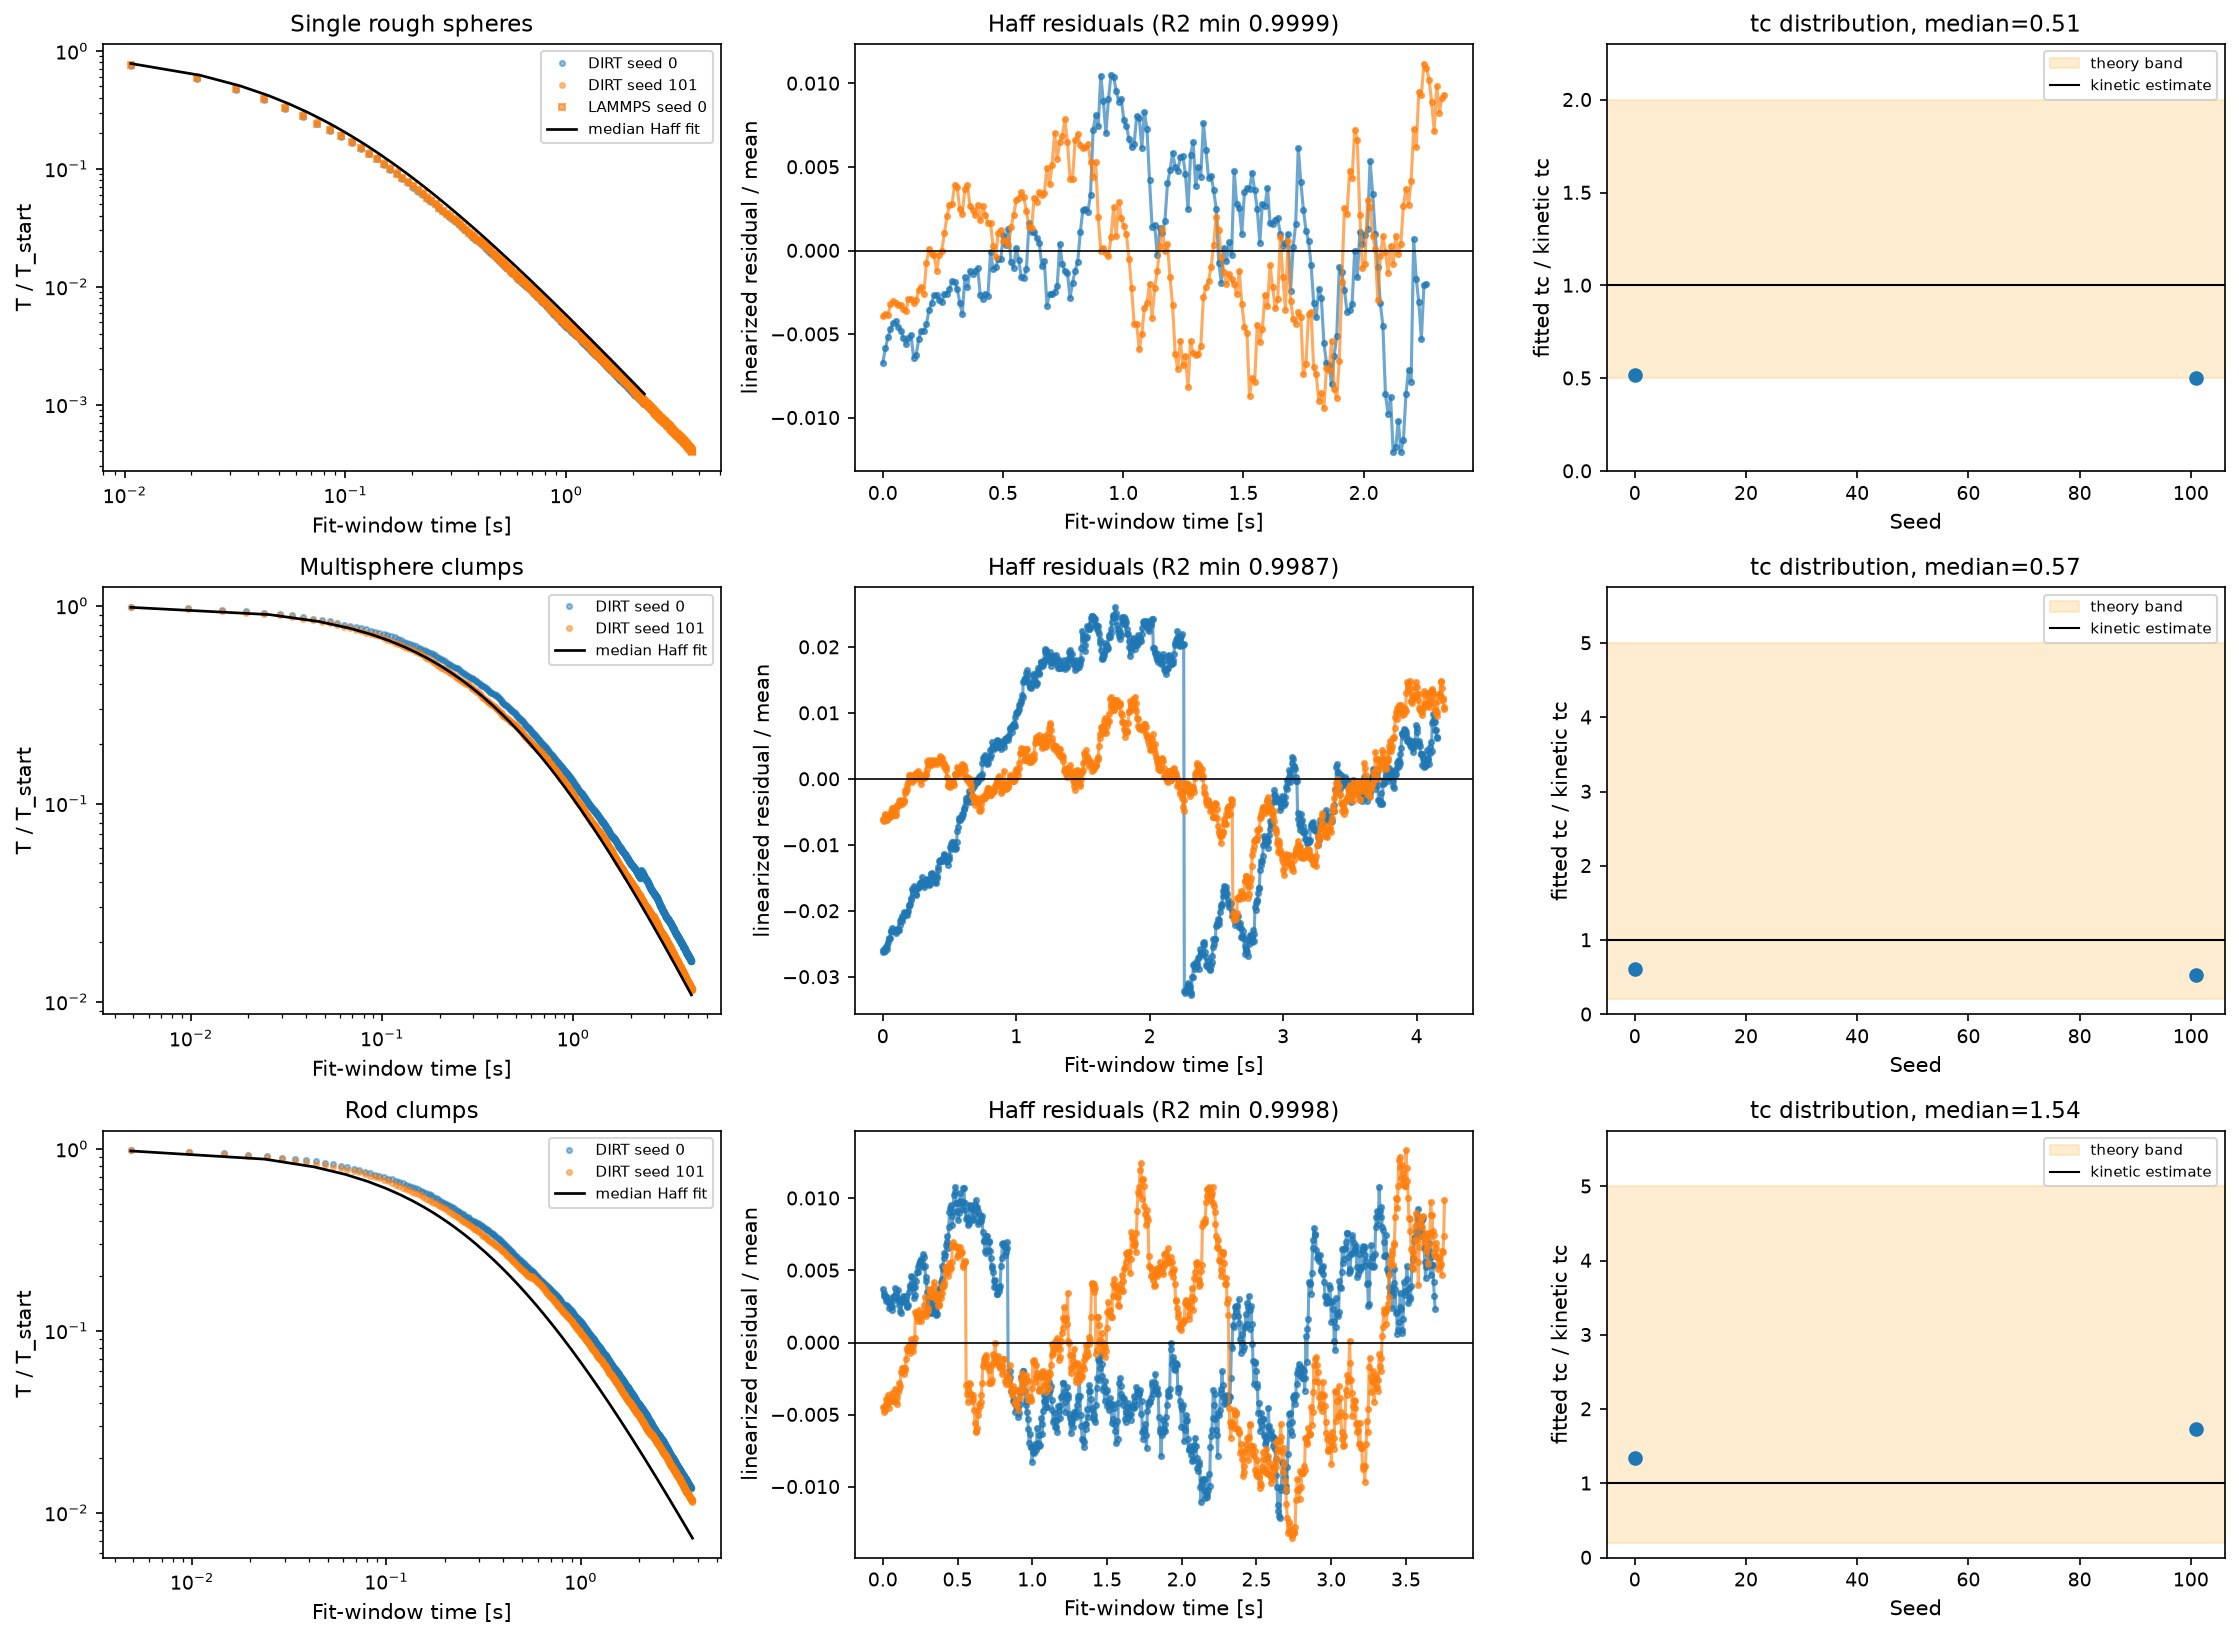
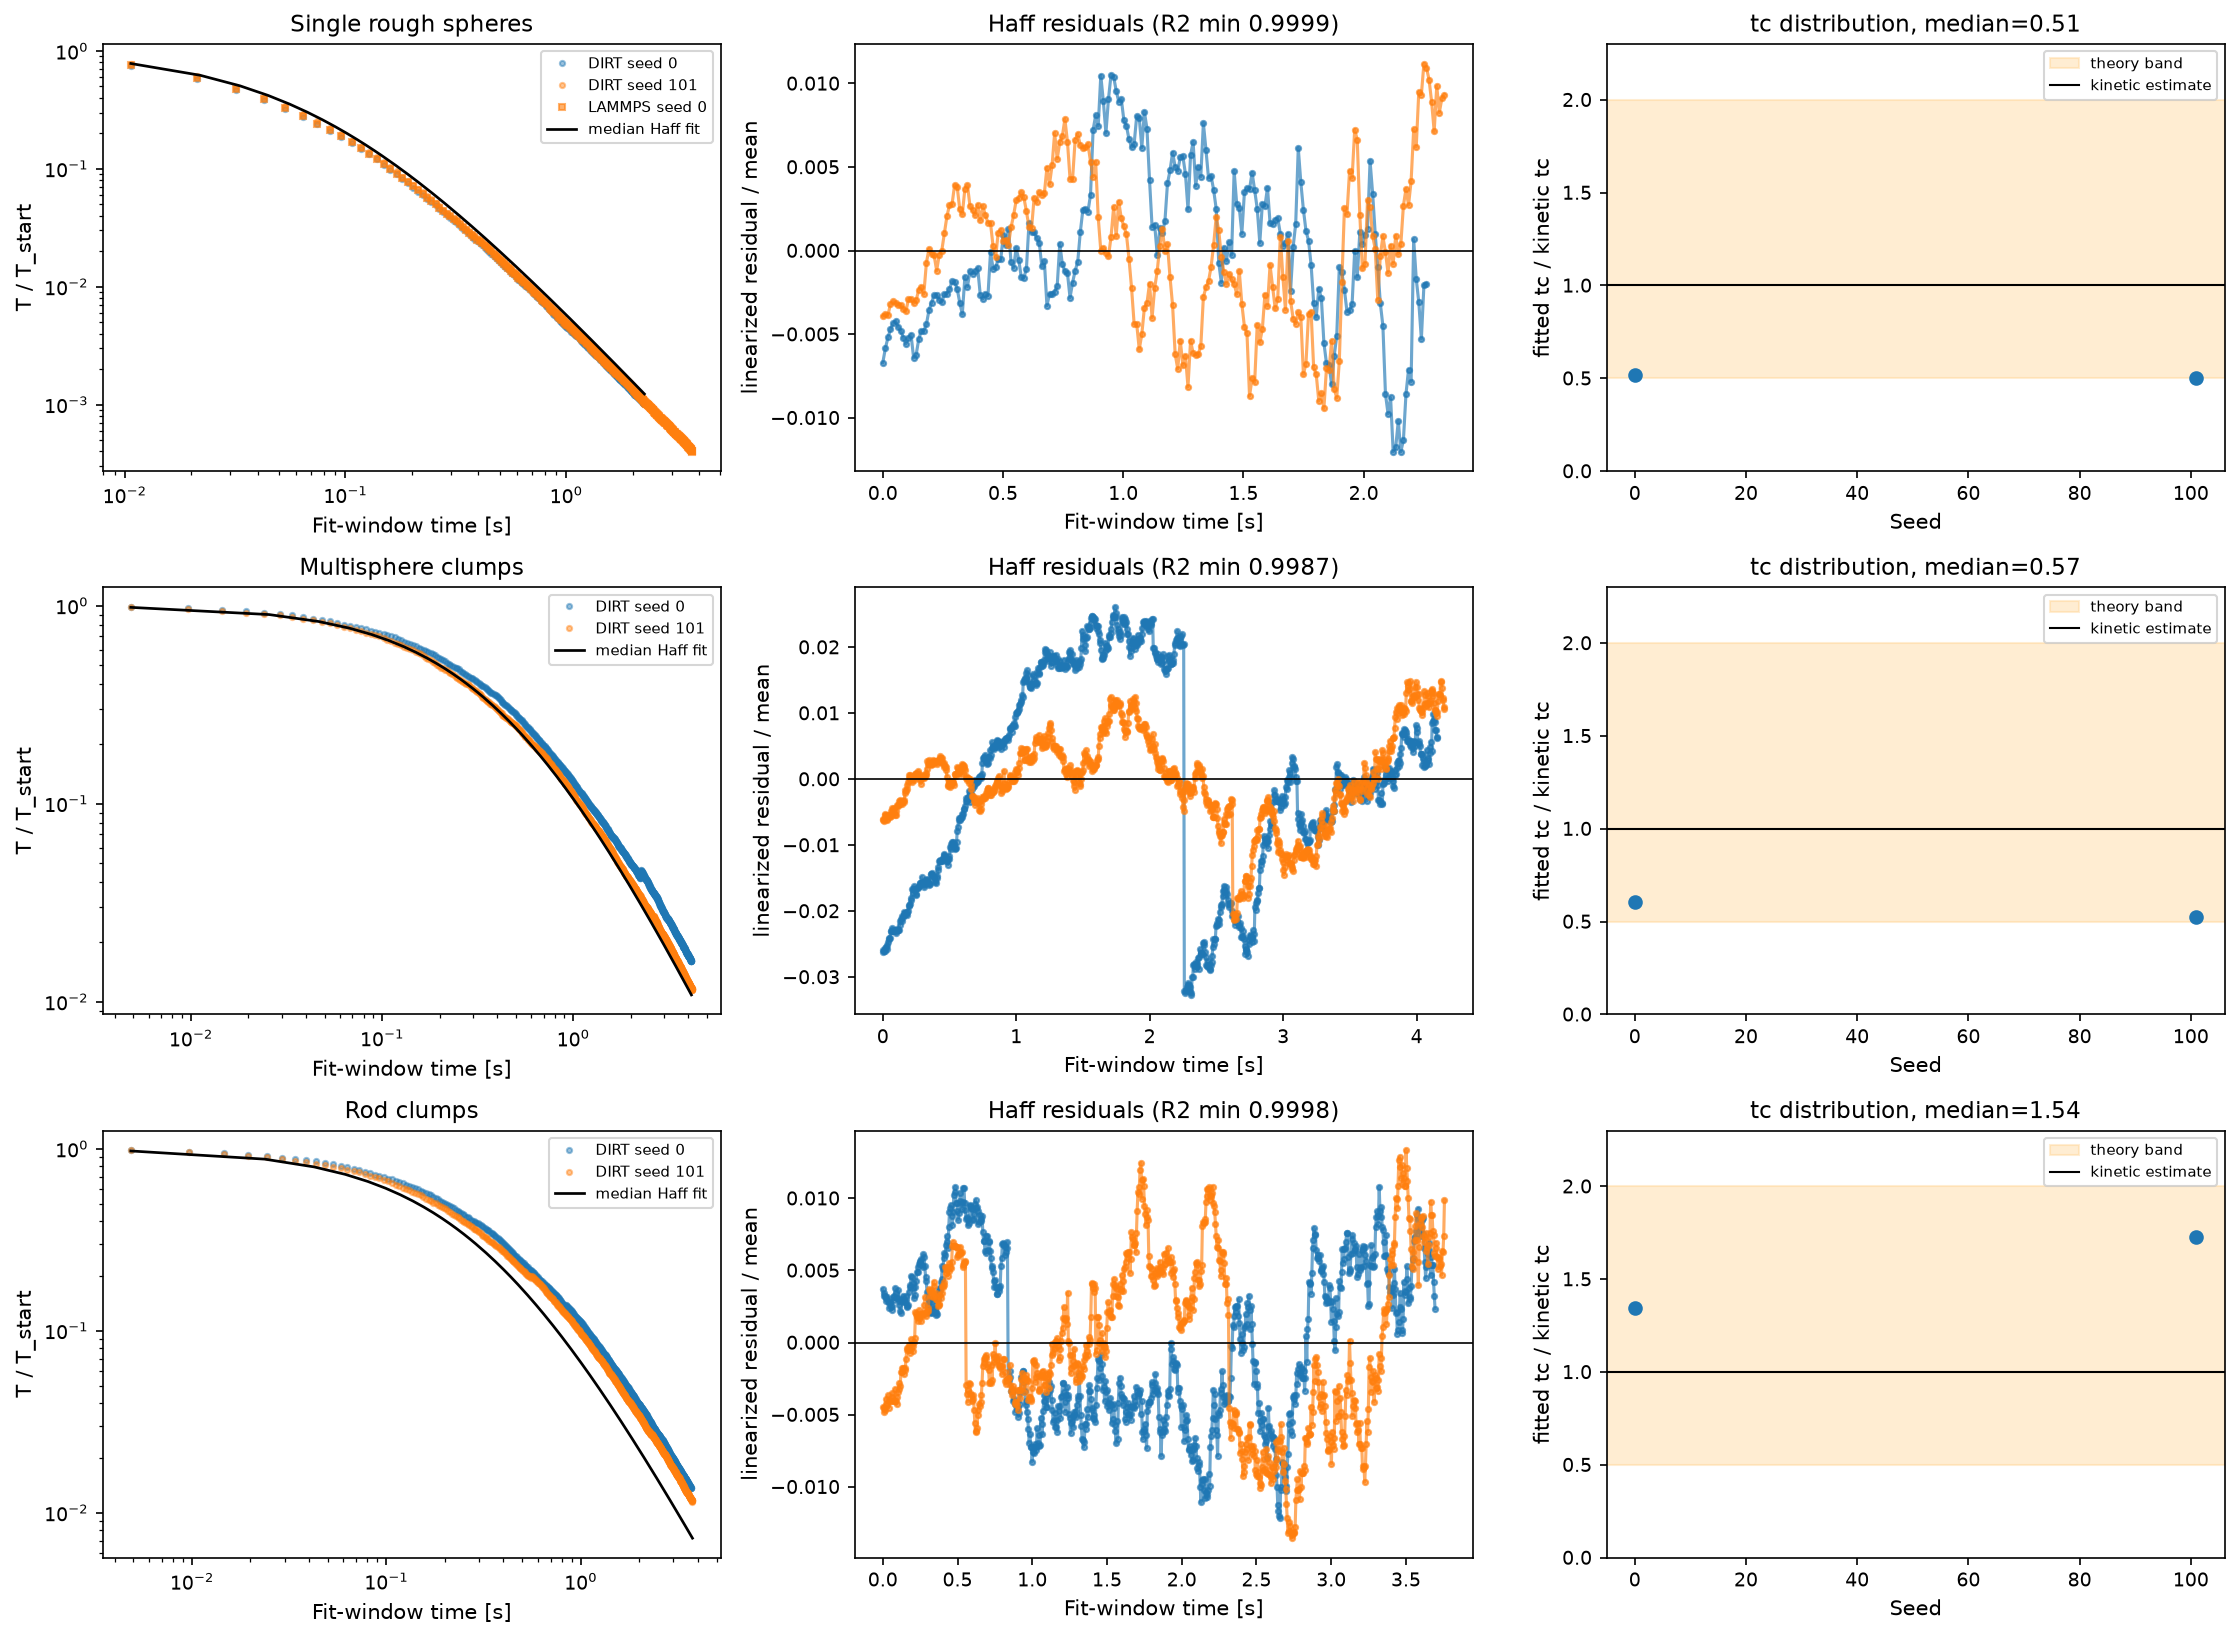
Tighten Haff ensemble tc validation bands
Reviewer noted the clump and rod kinetic tc gates used a factor-25 window. Use the same factor-two Enskog/Haff envelope for all cases, update the validation docs, and refresh the committed plot after a passing sweep.

Changed region(s): [[0.678, 0.7779, 1.0, 0.9646], [0.7088, 0.5601, 1.0, 0.6223], [0.678, 0.4356, 0.7088, 0.5601]]

diff --git a/examples/bench_haff_ensemble/README.md b/examples/bench_haff_ensemble/README.md
@@ -11,9 +11,10 @@ tc = 2 / (omega0 sqrt(T0)),    omega0 = (4/3) n d^2 g0 sqrt(pi) (1 - e^2)
 ```
 
 with Carnahan-Starling `g0 = (1 - phi/2)/(1 - phi)^3`. For the clump and rod
-cases, `d` is the bounding collision diameter. That makes the non-spherical cases
-an order estimate, so their acceptance band is wider than the single-sphere band;
-the fitted `tc` distribution must still land inside that declared band.
+cases, `d` is the bounding collision diameter. Because the rate scales as `d^2`,
+that proxy is the dominant geometric uncertainty for non-spherical particles; the
+gate still uses the same factor-two envelope for every case so a cooling time
+that is only order-of-magnitude correct fails.
 
 ## How to Run
 
@@ -36,7 +37,7 @@ the first seed when a compatible LAMMPS binary is available.
 | No energy growth | `max(T) < 1.5 T_initial` |
 | Haff's law holds | `1/sqrt(T)` linear in `t`, `R^2 > 0.99` |
 | Late-time decay | existing per-bench slope gate remains satisfied |
-| Kinetic `tc` | ensemble median fitted `tc` lies inside the declared theory band |
+| Kinetic `tc` | ensemble median fitted `tc` lies within `[0.5, 2.0]` of the Enskog/Haff estimate |
 
 ## Expected Plot
 

diff --git a/examples/VALIDATION.md b/examples/VALIDATION.md
@@ -625,11 +625,11 @@ late-time decay, not the `t⁻⁵ᐟ³` viscoelastic law. The strongest statemen
 `bench_haff_ensemble` strengthens this from a curve-shape check to a statistical
 cooling-time check: each of the three Haff cases is rerun at two deterministic
 insertion seeds, fitted for `tc`, and gated against the Enskog/Haff kinetic estimate
-`tc = 2/(ω₀√T₀)`, `ω₀ = (4/3)n d² g₀√π(1-e²)`, with Carnahan-Starling `g₀`. The
-sphere case uses the sharper smooth-sphere band `[0.5, 2.0]` on fitted/theory `tc`;
-clumps and rods use `[0.2, 5.0]` because the reference uses a bounding collision
-diameter while rotational modes and non-spherical contacts change the effective
-cooling rate.
+`tc = 2/(ω₀√T₀)`, `ω₀ = (4/3)n d² g₀√π(1-e²)`, with Carnahan-Starling `g₀`. All
+three cases use the same `[0.5, 2.0]` band on fitted/theory `tc`. For clumps and
+rods the reference uses a bounding collision diameter; because the rate scales as
+`d²`, the factor-two band leaves room for that proxy while rejecting an
+order-of-magnitude cooling-time error.
 
 ![Sphere Haff cooling](bench_sphere_haff_cooling/plots/haff_cooling.png)
 
